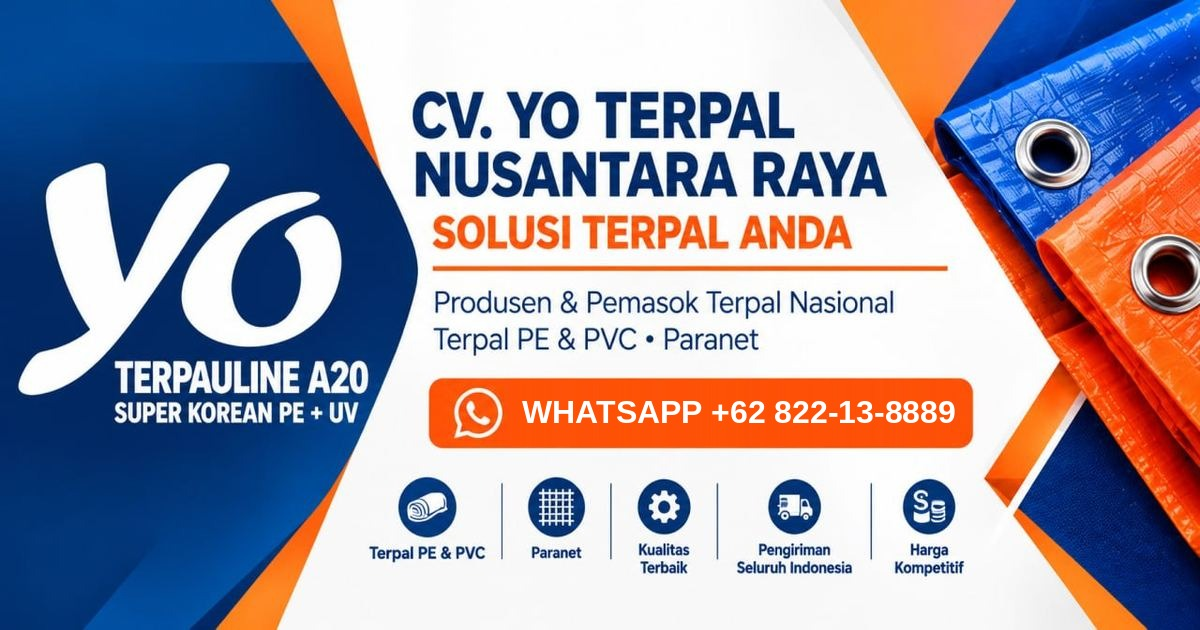
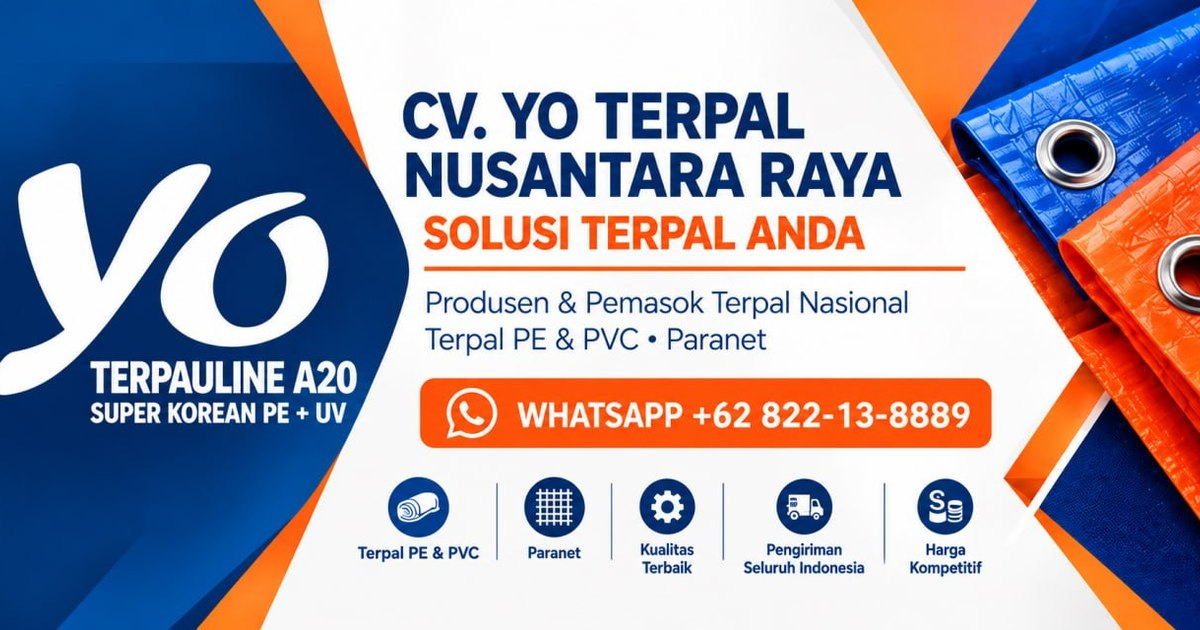
og-default: desain baru dari owner (nomor 822-13-8889) — og:image jadi WebP 76KB (JPEG fallback tetap di repo)

diff --git a/index.html b/index.html
@@ -3,7 +3,7 @@ layout: default
 title: "Produsen & Pemasok Terpal untuk Tambang dan Proyek Skala Besar"
 description: "Produksi & penyediaan terpal berkualitas tinggi untuk industri pertambangan dan proyek infrastruktur skala besar. Harga pabrik, kirim seluruh Indonesia, layanan 24/7."
 permalink: /
-image: /assets/images/og/og-default.jpg
+image: /assets/images/og/og-default.webp
 ---
 
 {% include hero.html %}

diff --git a/kontak.html b/kontak.html
@@ -3,7 +3,7 @@ layout: default
 title: "Kontak"
 description: "Hubungi CV. Yo Terpal Nusantara Raya (YO TERPAL NUSANTARA RAYA) via WhatsApp/telepon +62 822-13-8889 atau email yonusantararaya@gmail.com. Alamat: Amesta Living, Gunung Anyar Tambak, Kota Surabaya."
 permalink: /kontak/
-image: /assets/images/og/og-default.jpg
+image: /assets/images/og/og-default.webp
 ---
 
 <section class="page-hero">

diff --git a/404.html b/404.html
@@ -2,7 +2,7 @@
 layout: default
 title: "Halaman Tidak Ditemukan"
 permalink: /404.html
-image: /assets/images/og/og-default.jpg
+image: /assets/images/og/og-default.webp
 ---
 
 <section class="page-hero">
